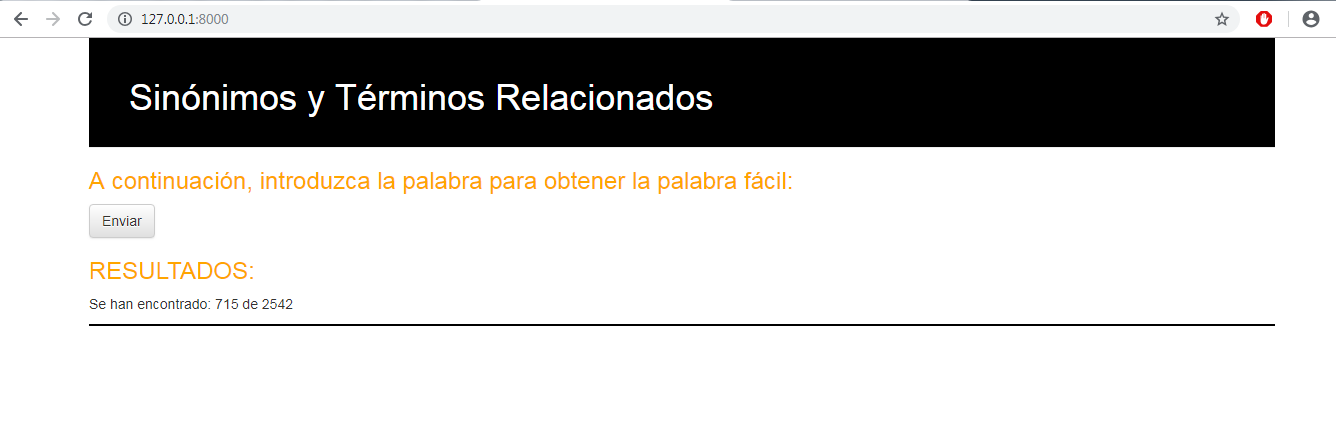
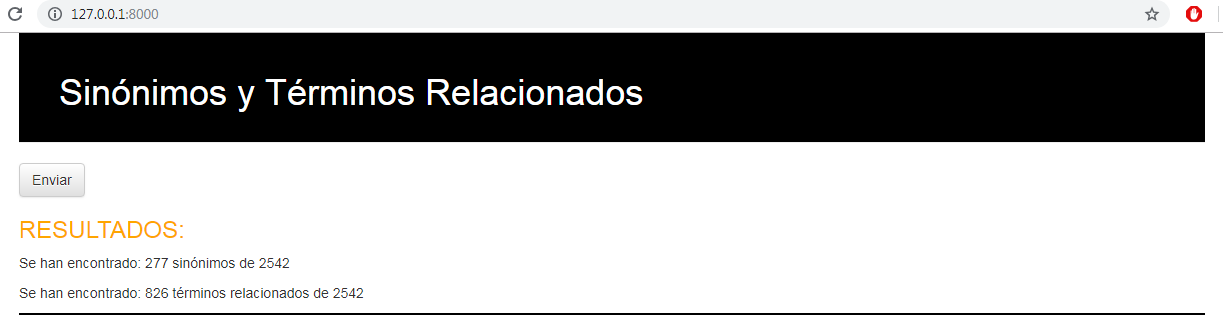
Corregida prueba y actualizados los resultados

diff --git a/PruebaPrototipo/prototipo/templates/prototipo/formulario.html b/PruebaPrototipo/prototipo/templates/prototipo/formulario.html
@@ -3,8 +3,7 @@
 {% block content %}
 
     <div class="border">
-        <h3>A continuación, introduzca la palabra para obtener la palabra fácil:</h3>
-        <form method="POST" class="post-form" >{% csrf_token %}
+        <form method="POST" class="" >{% csrf_token %}
 
             <button type="submit" class="save btn btn-default" name="boton-final">Enviar</button>
 
@@ -13,7 +12,8 @@
 
         <h3>RESULTADOS:</h3>
 
-            <p> Se han encontrado:  {{ resultado }} de {{ palabrasTotales }}</p>
+            <p> Se han encontrado:  {{ contadorSinonimos }} sinónimos de {{ palabrasTotales }}</p>
+            <p> Se han encontrado:  {{ contadorTerminos }} términos relacionados de {{ palabrasTotales }}</p>
 
 
      </div>

diff --git a/PruebaPrototipo/prototipo/views.py b/PruebaPrototipo/prototipo/views.py
@@ -5,8 +5,8 @@ import csv
 import nltk
 import os
 from nltk.corpus import wordnet as wn
-nltk.download('wordnet');
-nltk.download('omw');
+#nltk.download('wordnet');
+#nltk.download('omw');
 from .forms import PostForm, PostFormTerminos, PostFormFinal
 
 from django.shortcuts import redirect
@@ -22,18 +22,16 @@ def index(request):
 
     if request.method == "POST":
 
-        form_final = PostFormFinal(request.POST)
+        #form_final = PostFormFinal(request.POST)
 
 
         if 'boton-final' in request.POST:
-            if form_final.is_valid():
-                form_final.save()
-                resultado = form_final['PalabraABuscar'].value()
-                profundidad = form_final['Profundidad'].value()
-                contador, totales = prueba()
 
 
-                return render(request, 'prototipo/formulario.html', {'resultado': contador, 'palabrasTotales': totales})
+            contadorSinonimos,contadorTerminos, totales = prueba()
+
+
+            return render(request, 'prototipo/formulario.html', {'contadorSinonimos': contadorSinonimos, 'contadorTerminos': contadorTerminos,'palabrasTotales': totales})
 
     return render(request, 'prototipo/formulario.html',)
 
@@ -43,19 +41,19 @@ def prueba():
     BASE_DIR = os.path.dirname(os.path.dirname(os.path.abspath(__file__)))
     csvarchivo = open(BASE_DIR + '/prototipo/prueba.csv', encoding="utf8", errors='ignore')
     entrada = csv.reader(csvarchivo, delimiter=";")
-    contador = 0
+    contadorSinonimos = 0
+    contadorTerminos = 0
     totales = 0
     for i in entrada:
-        salida_final, contadorProfundidad, tipo = consultaSinonimosYterminos(str(i[0]), 1)
+        arraySinonimos, arrayTeminos = busquedaPorNivel(str(i[0]))
+        contadorSinonimos = contadorSinonimos + len(arraySinonimos)
+        contadorTerminos = contadorTerminos + len(arrayTeminos)
         totales = totales + 1
-        print("totales: " + str(totales))
-        if contadorProfundidad != -1:
-            contador = contador + 1
-
-        print("encontrados: " + str(contador))
+        print("Sinonimos encontrados: " + str(contadorSinonimos) + " de " + str(totales))
+        print("Terminos encontrados: " + str(contadorTerminos) + " de " + str(totales))
 
 
-    return contador, totales
+    return contadorSinonimos, contadorTerminos, totales
 
 
 
@@ -64,16 +62,10 @@ def prueba():
 def busquedaPorNivel(palabra):
     BASE_DIR = os.path.dirname(os.path.dirname(os.path.abspath(__file__)))
     csvarchivo = open(BASE_DIR + '/prototipo/entrada1000palabrasAPI.csv', encoding="utf8", errors='ignore')
-    arrayconsultaSinonimo, encontrado = consultaSinonimo(palabra, csvarchivo)
+    conjuntoSinonimos = consultaSinonimo(palabra, csvarchivo)
+    conjuntoTerminos = consultaTerminos(palabra, csvarchivo)
 
-    if encontrado == False:
-        arrayConsultaTermino, encontrado = consultaTerminos(palabra, csvarchivo)
-        if encontrado == False:
-            return arrayconsultaSinonimo + arrayConsultaTermino, False," "
-        else:
-            return arrayConsultaTermino, True,"TERMINO"
-    else:
-        return arrayconsultaSinonimo, True,"SINONIMO"
+    return conjuntoSinonimos, conjuntoTerminos
 
 
 
@@ -134,24 +126,20 @@ def consultaSinonimo(palabra, csvarchivo):
     archivo = csv.DictReader(csvarchivo, delimiter=";")
 
     #devuelve las palabras de conceptnet
-    conjuntoContenidoDevuelto = sinonimosDevueltos(palabra)
-    listaContenidoDevuelto = list(conjuntoContenidoDevuelto)
-    arraySinonimosFinal = []
-    encontradoSinonimo = False
+    sinonimos = sinonimosDevueltos(palabra)
+    conjuntoSinonimos = set()
 
-    for i in range(len(listaContenidoDevuelto)):
+
+    for sinonimo in sinonimos:
         csvarchivo.seek(0)
         for j in archivo:
 
-            if listaContenidoDevuelto[i] == j['PALABRA']:
-                arraySinonimosFinal.append(j['PALABRA'])
-                encontradoSinonimo = True
+            if sinonimo == j['PALABRA']:
+                conjuntoSinonimos.add(j['PALABRA'])
 
 
-    if encontradoSinonimo == False:
-        return listaContenidoDevuelto, False
-    else:
-        return arraySinonimosFinal, True
+
+    return conjuntoSinonimos
 
 
 #Servicio Web 1 que devuelve los sinonimos
@@ -177,23 +165,19 @@ def consultaTerminos(palabra, csvarchivo):
 
     archivo = csv.DictReader(csvarchivo, delimiter=";")
 
-    conjuntoContenidoDevuelto = terminosRelacionadosDevueltos(palabra)
-    listaContenidoDevuelto = list(conjuntoContenidoDevuelto)
-    arrayTerminosFinal = []
-    encontradoTermino = False
+    terminos = terminosRelacionadosDevueltos(palabra)
 
-    for i in range(len(listaContenidoDevuelto)):
+    conjuntoTerminos = set()
+
+
+    for termino in terminos:
         csvarchivo.seek(0)
 
         for j in archivo:
-            if listaContenidoDevuelto[i] == j['PALABRA']:
-                arrayTerminosFinal.append(j['PALABRA'])
-                encontradoTermino = True
+            if termino == j['PALABRA']:
+                conjuntoTerminos.add(j['PALABRA'])
 
-    if encontradoTermino == False:
-        return listaContenidoDevuelto, False
-    else:
-        return arrayTerminosFinal, True
+    return conjuntoTerminos
 
 
 
